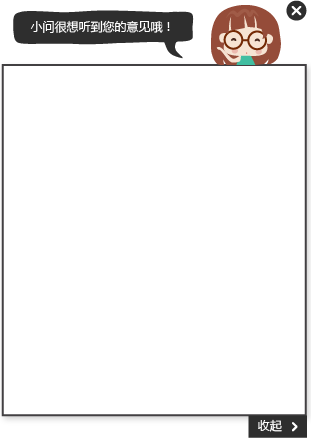
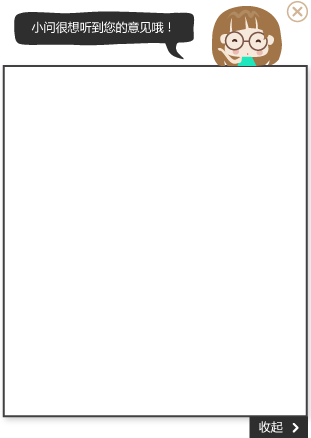
redesign feedback popup

diff --git a/web/js/app/index.js b/web/js/app/index.js
@@ -143,7 +143,7 @@ require(['../config'],function(){
             fdWrap.animate({right: '0'}, 300);
         });
         fdWrap.on('click', function(){
-            fdWrap.animate({right: '-130px'}, 300);
+            fdWrap.animate({right: '-150px'}, 300);
             unfdWrap.animate({right: '0'}, 300);
         });
         if(shouldShow()){

diff --git a/web/sass/index.scss b/web/sass/index.scss
@@ -245,8 +245,8 @@ $main-ad-color: #eb7020;
 	display: none;
 }
 .fdWrap{
-	width: 100px;
-    height: 147px;
+	width: 130px;
+    height: 115px;
 	position: absolute;
 	z-index: 1999;
 	right: 0;

diff --git a/web/css/index.css b/web/css/index.css
@@ -674,8 +674,8 @@ body {
   display: none; }
 
 .fdWrap {
-  width: 100px;
-  height: 147px;
+  width: 130px;
+  height: 115px;
   position: absolute;
   z-index: 1999;
   right: 0;
